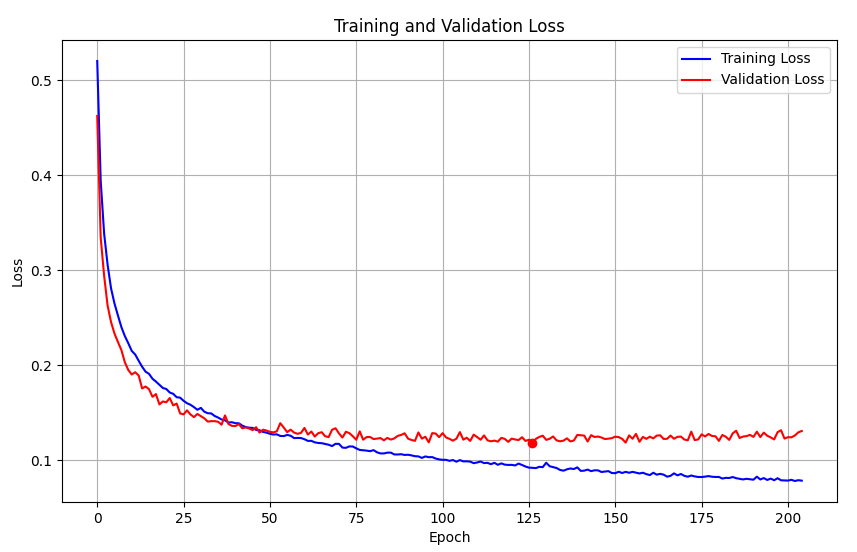
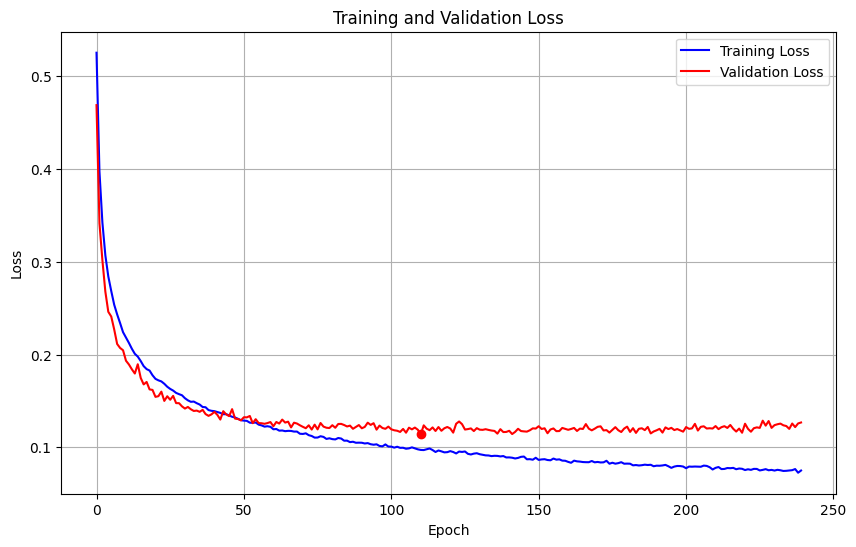
small technical fixes

Changed region(s): [[0.0, 0.0, 1.0, 0.9945]]

diff --git a/docs/post/training-the-first-model/index.html b/docs/post/training-the-first-model/index.html
@@ -233,8 +233,8 @@ standard PyTorch training loop. It&rsquo;s actually not very efficient to use it
   "keywords": [
     "Python", "PyTorch", "ML"
   ],
-  "articleBody": "Now that we have plenty of training data, we can load it into PyTorch and start training a model.\nLoading the data Since the binary file format we chose was so simple, it’s rather straightforward to write a Dataset class which reads it in:\nimport numpy as np import torch from torch.utils.data import Dataset, DataLoader, Subset class BinaryBezierDataset(Dataset): \"\"\" Loads Bezier triangle data from a binary file into memory once. Each record: 11 float32 coords, 32 uint8 bytes (packed 16x16 bitmap). \"\"\" def __init__(self, filename, device, input_dim=11): super().__init__() self.filename = filename self.input_dim = input_dim coords_bytes = input_dim * np.dtype(np.float32).itemsize # 44 record_bytes = coords_bytes + 32 # 76 (coords + 16x16 bitmap = 256 bits) # Calculate number of samples from file size file_size = os.path.getsize(filename) if file_size % record_bytes != 0: raise ValueError(f\"File size {file_size} not multiple of record size {record_bytes}\") self.num_samples = file_size // record_bytes print(f\"Found {self.num_samples} samples in {filename}.\") with open(filename, 'rb') as f: data = np.fromfile(f, dtype=np.uint8, count=file_size) data = data.reshape(self.num_samples, record_bytes) # reshape into records # Extract coords (first 44 bytes = 11 floats) coords = data[:, :coords_bytes].view(np.float32).reshape(self.num_samples, self.input_dim) # Extract and unpack packed bitmaps (last 32 bytes) packed_bitmaps = data[:, coords_bytes:] unpacked_bits = np.unpackbits(packed_bitmaps, axis=1) # (num_samples, 256) # The actual label is the maximum (0 or 1) over the bitmap bits outputs = np.max(unpacked_bits, axis=1) # (num_samples,) # Convert to pytorch tensors and transfer to GPU if required self.x_tensor = torch.from_numpy(coords).float().to(device) # (num_samples, 11) self.y_tensor = torch.from_numpy(outputs).float().to(device) # (num_samples,) def __len__(self): return self.num_samples def __getitem__(self, idx): return self.x_tensor[idx], self.y_tensor[idx] So far, so good. We are in the convenient position that our entire dataset fits quite comfortably into RAM or VRAM, so we just load the entire dataset at once, extract the 11 triangle coordinates, unpack the bitmap and take its maximum to get a binary 0/1 label which tells us whether the triangle self-intersects. This is a pretty straightforward DataSet which we can load into a nn.DataLoader with the desired batch size and shuffling enabled to feed a standard PyTorch training loop. It’s actually not very efficient to use it like this, but we’ll get to that in a later post.\nDesigning the model Quite frankly, my first attempt at designing a model was a bit overwrought. After a brainstorming session with Gemini 2.5 Pro, I drafted a model which would predict the 16x16 intersection curve heatmap described in the previous post instead of just the binary classifier. It consisted of some dense MLP layers of increasing size, until their output would be reshaped to 64 channels with a 4x4 resolution. Then a series of transposed convolution layers would successively upscale and reduce the number of channels until we arrived at a 1x16x16 image, which would be compared to the bitmap label via Dice loss.\nIt’s not that this design was a total failure; after training, it did make some reasonable predictions. But in the end it was slow to train relative to its number of parameters, the accuracy wasn’t particularly good, and it simply felt too complex for a first attempt.\nAt such times it’s a good idea to think back on the wisdom of Andrej Karpathy: don’t be a hero when it comes to model design. Our goal is to classify, so let’s stick to a single output neuron with a sigmoid activation. In between our input layer with 11 floats and the output, let’s just do the simplest thing that could possibly work: a sequence of \\(H\\) hidden, fully connected MLP layers with a fixed number \\(n\\) of neurons each.\nL i n e a r B a t c h N o r m R e L U D r o p o u t A single MLP layer for our first model.\nEach layer consists of a standard linear layer followed by batch normalization, ReLU activation and dropout. It’s generally considered not ideal to combine BatchNorm with dropout, but in our case, due to non-noisy data, being able to choose large batch sizes because our inputs are small, and using only very low dropout rates seems to make the combination work quite well.\nHere’s the Python function which instantiates our parameterized model:\ndef simple_mlp_model(inputdim, numlayers, numneurons, dropout_rate): layers = [ nn.Linear(inputdim, numneurons, bias=False), nn.BatchNorm1d(numneurons), nn.ReLU(), ] for k in range(numlayers): layers += [ nn.Linear(numneurons, numneurons, bias=False), nn.BatchNorm1d(numneurons), nn.ReLU(), nn.Dropout(p=dropout_rate), ] layers += [ nn.Linear(numneurons, 1, bias=False), nn.Sigmoid() ] return nn.Sequential(*layers) Another useful little detail here is that we deactivate the bias terms on linear layers directly before BatchNorm layers since the latter provide their own bias term. It’s not a huge thing, but it does save a few parameters.\nOur loss function is binary_cross_entropy, and for training the model, we use the AdamW optimizer from PyTorch. For now we don’t use any weight decay because in my first tests it didn’t seem to be beneficial. The training loop is pretty standard PyTorch fare, and I won’t reproduce it here in its entirety.\nA first run After all that setup, it’s time to start a first training run. Let’s use 5 hidden layers with 256 neurons each; this model has around 333k parameters, so pretty quick to train. We use a learning rate of \\(10^{-3}\\) and a dropout rate of \\(p = 0.04\\). We train and validate using the 900,000 and 20,000 examples, respectively, described in the previous post.\nHere’s the plot of training and validation loss over the entire training run:\nWe use a simple kind of early stopping here based on keeping the model with the best validation accuracy and stopping if no improvements were made in the last 50 epochs. The best validation accuracy is achieved at epoch 153, with 95.19% accuracy on the validation set and a validation loss of 0.1188. That’s a pretty nice result for a first run! Granted, I chose these hyperparameters not randomly, but based on experience from some first experimental runs, so they already yield decent results.\nThe model is already overfitting here, but the validation loss isn’t suffering dramatically from it yet. We could try increasing the dropout rate or introducing some other kind of regularization, but we’ll get into a slightly more principled hyperparameter search later on.\nAlso note that the red dot marks the lowest validation loss, 0.1178, which happens earlier (epoch 127) but has a slightly lower accuracy of 94.99%.\nThis looks like a great starting point, and we will tweak various aspects of our setup from here on out.\n",
-  "wordCount" : "1074",
+  "articleBody": "Now that we have plenty of training data, we can load it into PyTorch and start training a model.\nLoading the data Since the binary file format we chose was so simple, it’s rather straightforward to write a Dataset class which reads it in:\nimport numpy as np import torch from torch.utils.data import Dataset, DataLoader, Subset class BinaryBezierDataset(Dataset): \"\"\" Loads Bezier triangle data from a binary file into memory once. Each record: 11 float32 coords, 32 uint8 bytes (packed 16x16 bitmap). \"\"\" def __init__(self, filename, device, input_dim=11): super().__init__() self.filename = filename self.input_dim = input_dim coords_bytes = input_dim * np.dtype(np.float32).itemsize # 44 record_bytes = coords_bytes + 32 # 76 (coords + 16x16 bitmap = 256 bits) # Calculate number of samples from file size file_size = os.path.getsize(filename) if file_size % record_bytes != 0: raise ValueError(f\"File size {file_size} not multiple of record size {record_bytes}\") self.num_samples = file_size // record_bytes print(f\"Found {self.num_samples} samples in {filename}.\") with open(filename, 'rb') as f: data = np.fromfile(f, dtype=np.uint8, count=file_size) data = data.reshape(self.num_samples, record_bytes) # reshape into records # Extract coords (first 44 bytes = 11 floats) coords = data[:, :coords_bytes].view(np.float32).reshape(self.num_samples, self.input_dim) # Extract and unpack packed bitmaps (last 32 bytes) packed_bitmaps = data[:, coords_bytes:] unpacked_bits = np.unpackbits(packed_bitmaps, axis=1) # (num_samples, 256) # The actual label is the maximum (0 or 1) over the bitmap bits outputs = np.max(unpacked_bits, axis=1) # (num_samples,) # Convert to pytorch tensors and transfer to GPU if required self.x_tensor = torch.from_numpy(coords).float().to(device) # (num_samples, 11) self.y_tensor = torch.from_numpy(outputs).float().to(device) # (num_samples,) def __len__(self): return self.num_samples def __getitem__(self, idx): return self.x_tensor[idx], self.y_tensor[idx] So far, so good. We are in the convenient position that our entire dataset fits quite comfortably into RAM or VRAM, so we just load the entire dataset at once, extract the 11 triangle coordinates, unpack the bitmap and take its maximum to get a binary 0/1 label which tells us whether the triangle self-intersects. This is a pretty straightforward DataSet which we can load into a nn.DataLoader with the desired batch size and shuffling enabled to feed a standard PyTorch training loop. It’s actually not very efficient to use it like this, but we’ll get to that in a later post.\nDesigning the model Quite frankly, my first attempt at designing a model was a bit overwrought. After a brainstorming session with Gemini 2.5 Pro, I drafted a model which would predict the 16x16 intersection curve heatmap described in the previous post instead of just the binary classifier. It consisted of some dense MLP layers of increasing size, until their output would be reshaped to 64 channels with a 4x4 resolution. Then a series of transposed convolution layers would successively upscale and reduce the number of channels until we arrived at a 1x16x16 image, which would be compared to the bitmap label via Dice loss.\nIt’s not that this design was a total failure; after training, it did make some reasonable predictions. But in the end it was slow to train relative to its number of parameters, the accuracy wasn’t particularly good, and it simply felt too complex for a first attempt.\nAt such times it’s a good idea to think back on the wisdom of Andrej Karpathy: don’t be a hero when it comes to model design. Our goal is to classify, so let’s stick to a single output neuron with a sigmoid activation. In between our input layer with 11 floats and the output, let’s just do the simplest thing that could possibly work: a sequence of \\(H\\) hidden, fully connected MLP layers with a fixed number \\(n\\) of neurons each.\nL i n e a r B a t c h N o r m R e L U D r o p o u t A single MLP layer for our first model.\nEach layer consists of a standard linear layer followed by batch normalization, ReLU activation and dropout. It’s generally considered not ideal to combine BatchNorm with dropout, but in our case, due to non-noisy data, being able to choose large batch sizes because our inputs are small, and using only very low dropout rates seems to make the combination work quite well.\nHere’s the Python function which instantiates our parameterized model:\ndef simple_mlp_model(inputdim, numlayers, numneurons, dropout_rate): layers = [ nn.Linear(inputdim, numneurons, bias=False), nn.BatchNorm1d(numneurons), nn.ReLU(), ] for k in range(numlayers): layers += [ nn.Linear(numneurons, numneurons, bias=False), nn.BatchNorm1d(numneurons), nn.ReLU(), nn.Dropout(p=dropout_rate), ] layers += [ nn.Linear(numneurons, 1), nn.Sigmoid() ] return nn.Sequential(*layers) Another useful little detail here is that we deactivate the bias terms on linear layers directly before BatchNorm layers since the latter provide their own bias term. It’s not a huge thing, but it does save a few parameters.\nOur loss function is binary_cross_entropy, and for training the model, we use the AdamW optimizer from PyTorch. For now we don’t use any weight decay because in my first tests it didn’t seem to be beneficial. The training loop is pretty standard PyTorch fare, and I won’t reproduce it here in its entirety.\nA first run After all that setup, it’s time to start a first training run. Let’s use 5 hidden layers with 256 neurons each; this model has around 333k parameters, so pretty quick to train. We use a learning rate of \\(10^{-3}\\) and a dropout rate of \\(p = 0.04\\). We train and validate using the 900,000 and 20,000 examples, respectively, described in the previous post.\nHere’s the plot of training and validation loss over the entire training run:\nWe use a simple kind of early stopping here based on keeping the model with the best validation accuracy and stopping if no improvements were made in the last 50 epochs. The best validation accuracy is achieved at epoch 188, with 95.44% accuracy on the validation set and a validation loss of 0.1149. That’s pretty nice for a first run! Granted, I chose these hyperparameters not randomly, but based on experience from some earlier experimental runs, so they already yield decent results.\nThe model is already overfitting here, but the validation loss isn’t suffering dramatically from it yet. We could try increasing the dropout rate or introducing some other kind of regularization, but we’ll get into a slightly more principled hyperparameter search later on.\nAlso note that the red dot marks the lowest validation loss, 0.1139, which happens earlier (epoch 111) but has a slightly lower accuracy of 95.12%.\nThis looks like a great starting point, and we will tweak various aspects of our setup from here on out.\n",
+  "wordCount" : "1071",
   "inLanguage": "en",
   "datePublished": "2025-04-10T20:29:11+02:00",
   "dateModified": "2025-04-10T20:29:11+02:00",
@@ -484,7 +484,7 @@ dropout rates seems to make the combination work quite well.</p>
 </span></span><span class="line"><span class="cl">            <span class="n">nn</span><span class="o">.</span><span class="n">Dropout</span><span class="p">(</span><span class="n">p</span><span class="o">=</span><span class="n">dropout_rate</span><span class="p">),</span>
 </span></span><span class="line"><span class="cl">        <span class="p">]</span>
 </span></span><span class="line"><span class="cl">    <span class="n">layers</span> <span class="o">+=</span> <span class="p">[</span>
-</span></span><span class="line"><span class="cl">        <span class="n">nn</span><span class="o">.</span><span class="n">Linear</span><span class="p">(</span><span class="n">numneurons</span><span class="p">,</span> <span class="mi">1</span><span class="p">,</span> <span class="n">bias</span><span class="o">=</span><span class="kc">False</span><span class="p">),</span>
+</span></span><span class="line"><span class="cl">        <span class="n">nn</span><span class="o">.</span><span class="n">Linear</span><span class="p">(</span><span class="n">numneurons</span><span class="p">,</span> <span class="mi">1</span><span class="p">),</span>
 </span></span><span class="line"><span class="cl">        <span class="n">nn</span><span class="o">.</span><span class="n">Sigmoid</span><span class="p">()</span>
 </span></span><span class="line"><span class="cl">    <span class="p">]</span>
 </span></span><span class="line"><span class="cl">    <span class="k">return</span> <span class="n">nn</span><span class="o">.</span><span class="n">Sequential</span><span class="p">(</span><span class="o">*</span><span class="n">layers</span><span class="p">)</span>
@@ -503,14 +503,14 @@ We train and validate using the 900,000 and 20,000 examples, respectively, descr
 <p><img alt="loss plot" loading="lazy" src="/post/training-the-first-model/lossplot.png"></p>
 <p>We use a simple kind of early stopping here based on keeping the model with the best validation accuracy and stopping
 if no improvements were made in the last 50 epochs.
-The best validation accuracy is achieved at epoch 153, with <strong>95.19% accuracy</strong> on the validation set and a validation
-loss of 0.1188. That&rsquo;s a pretty nice result for a first run! Granted, I chose these hyperparameters not randomly,
-but based on experience from some first experimental runs, so they already yield decent results.</p>
+The best validation accuracy is achieved at epoch 188, with <strong>95.44% accuracy</strong> on the validation set and a validation
+loss of 0.1149. That&rsquo;s pretty nice for a first run! Granted, I chose these hyperparameters not randomly,
+but based on experience from some earlier experimental runs, so they already yield decent results.</p>
 <p>The model is already overfitting here, but the validation loss isn&rsquo;t suffering dramatically from it yet. We could try
 increasing the dropout rate or introducing some other kind of regularization, but we&rsquo;ll get into a slightly more principled
 hyperparameter search later on.</p>
-<p>Also note that the red dot marks the lowest validation loss, 0.1178, which happens earlier (epoch 127)
-but has a slightly lower accuracy of 94.99%.</p>
+<p>Also note that the red dot marks the lowest validation loss, 0.1139, which happens earlier (epoch 111)
+but has a slightly lower accuracy of 95.12%.</p>
 <p>This looks like a great starting point, and we will tweak various aspects of our setup from here on out.</p>
 
 

diff --git a/hugosite/content/post/training-the-first-model/index.md b/hugosite/content/post/training-the-first-model/index.md
@@ -116,7 +116,7 @@ def simple_mlp_model(inputdim, numlayers, numneurons, dropout_rate):
             nn.Dropout(p=dropout_rate),
         ]
     layers += [
-        nn.Linear(numneurons, 1, bias=False),
+        nn.Linear(numneurons, 1),
         nn.Sigmoid()
     ]
     return nn.Sequential(*layers)
@@ -143,15 +143,15 @@ Here's the plot of training and validation loss over the entire training run:
 
 We use a simple kind of early stopping here based on keeping the model with the best validation accuracy and stopping
 if no improvements were made in the last 50 epochs.
-The best validation accuracy is achieved at epoch 153, with **95.19% accuracy** on the validation set and a validation
-loss of 0.1188. That's a pretty nice result for a first run! Granted, I chose these hyperparameters not randomly,
-but based on experience from some first experimental runs, so they already yield decent results.
+The best validation accuracy is achieved at epoch 188, with **95.44% accuracy** on the validation set and a validation
+loss of 0.1149. That's pretty nice for a first run! Granted, I chose these hyperparameters not randomly,
+but based on experience from some earlier experimental runs, so they already yield decent results.
 
 The model is already overfitting here, but the validation loss isn't suffering dramatically from it yet. We could try
 increasing the dropout rate or introducing some other kind of regularization, but we'll get into a slightly more principled
 hyperparameter search later on.
 
-Also note that the red dot marks the lowest validation loss, 0.1178, which happens earlier (epoch 127)
-but has a slightly lower accuracy of 94.99%.
+Also note that the red dot marks the lowest validation loss, 0.1139, which happens earlier (epoch 111)
+but has a slightly lower accuracy of 95.12%.
 
 This looks like a great starting point, and we will tweak various aspects of our setup from here on out.
